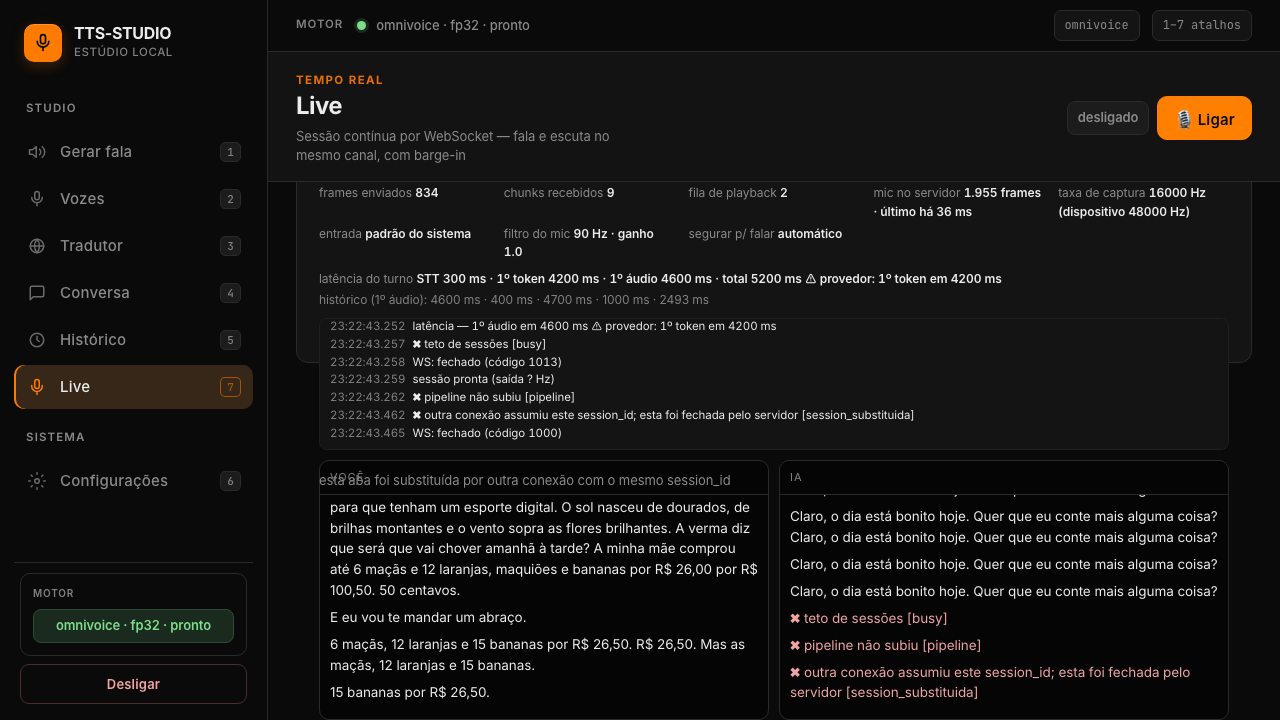
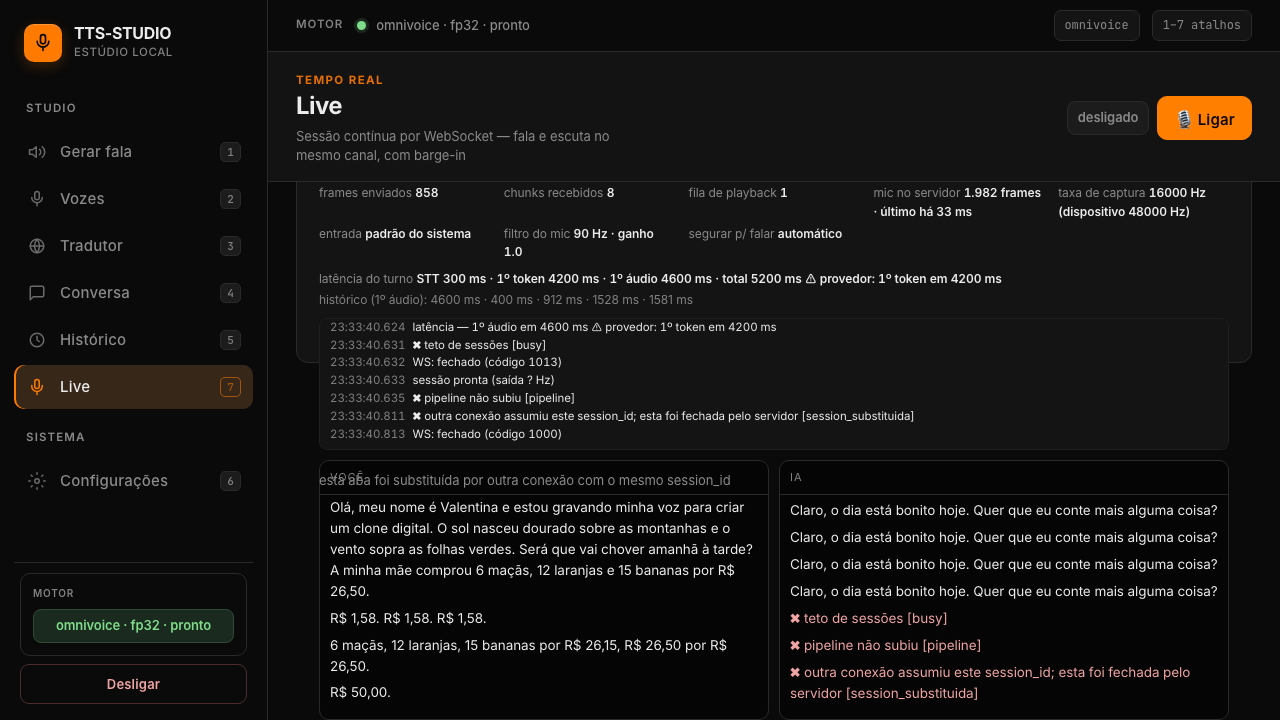
feat(live): 9º filtro (`modelo`) e vocabulário do motor no "sem decisão"
O `_apply_settings` do #501 fechou o vocabulário dos filtros no servidor e inclui
o `modelo` (filtro por LLM, `on` nasce FALSE até a medição do qa). A tela passa a
mostrar o toggle — sem os campos de provedor/limiar/timeout, que o servidor
preenche — e a explicar por que ele nasce desligado.

`live_barge_sem_decisao`: o motor lê `interrompe`, o adendo do dono diz `corta`.
A tela MANDA `interrompe` (é o que vira corte de fato) e ACEITA `corta` na leitura,
convertendo — as duas formas ficam cobertas por teste, com o alias injetado direto
no servidor de teste por uma rota `/__set` (sem passar pela validação, porque o
`_apply_settings` normalizaria o alias embora ele não seja o que o motor lê).

O launcher agora só SERVE as chaves se o app não as conhecer e sempre grava o corpo
dos POSTs; a suíte repõe o baseline no início e devolve filtros e modo ao dono no
fim, então é reexecutável (três rodadas seguidas verdes).

Refs #502

diff --git a/static/index.html b/static/index.html
@@ -2663,6 +2663,10 @@
               <label class="check"><input type="checkbox" id="lxLiga_eco"><b>eco do próprio TTS</b></label>
               <span class="lx-dica">CONTINUO quando o que voltou é a minha própria fala</span>
             </div>
+            <div class="lx-filtro" data-filtro="modelo">
+              <label class="check"><input type="checkbox" id="lxLiga_modelo"><b>modelo (LLM)</b></label>
+              <span class="lx-dica">decido pelo conteúdo — entra só quando os rápidos não decidem; ainda desligado até a medição</span>
+            </div>
             <div class="lx-filtro" data-filtro="fim_de_resposta">
               <label class="check"><input type="checkbox" id="lxLiga_fim_de_resposta"><b>fim de resposta</b></label>
               <span class="lx-dica">deixo terminar (anoto sua fala) quando faltam</span>
@@ -2674,7 +2678,7 @@
               <label for="lxSemDecisao"><b>quando nenhum filtro decide</b></label>
               <select id="lxSemDecisao" aria-label="quando nenhum filtro decide">
                 <option value="continua">continuo falando</option>
-                <option value="corta">corto a resposta</option>
+                <option value="interrompe">corto a resposta</option>
               </select>
             </div>
             <div class="row" style="gap:10px; align-items:center; margin-top:8px">
@@ -8339,9 +8343,12 @@ const LX_FILTROS_PADRAO = {
   backchannel: { on: true, palavras: ["uhum", "aham", "hum", "sim", "sei", "ok", "tá", "certo", "entendi", "isso", "claro", "beleza", "legal", "nossa", "mhm", "yeah", "right"] },
   ruido: { on: true },
   eco: { on: true },
+  modelo: { on: false },   // decide pelo conteúdo (LLM); o servidor também nasce false
   fim_de_resposta: { on: true, restante_ms: 1000 },
 };
-const LX_SEM_DECISAO_PADRAO = "continua";
+// O motor lê `interrompe` como corte (app.py: `"interrupcao" if tipo == "interrompe"`);
+// aceitar `corta` na leitura cobre o vocabulário do adendo, que é outro.
+const LX_SEM_DECISAO_PADRAO = "continua", LX_SEM_DECISAO_CORTA = "interrompe";
 const LX_MAX_PALAVRAS = 100, LX_MAX_PALAVRA_CHARS = 40;
 
 function lxClona(o) { return JSON.parse(JSON.stringify(o)); }
@@ -8377,7 +8384,8 @@ function lxFiltrosAplica(dados, semDecisao) {
   const d = (dados && typeof dados === "object") ? dados : {};
   LX.filtros = {};
   for (const nome of Object.keys(LX_FILTROS_PADRAO)) LX.filtros[nome] = lxFiltroCfg(nome, d[nome]);
-  LX.semDecisao = ["continua", "corta"].includes(semDecisao) ? semDecisao : LX_SEM_DECISAO_PADRAO;
+  LX.semDecisao = (semDecisao === "corta" || semDecisao === LX_SEM_DECISAO_CORTA)
+    ? LX_SEM_DECISAO_CORTA : LX_SEM_DECISAO_PADRAO;
   lxFiltrosRender();
   lxFiltrosModo();
 }
@@ -8411,7 +8419,7 @@ function lxFiltrosRender() {
   const ligados = Object.values(LX.filtros).filter(c => c.on).length;
   if ($("lxFiltrosResumo"))
     $("lxFiltrosResumo").textContent = "· " + ligados + " de " + Object.keys(LX.filtros).length + " ligados"
-      + " · sem decisão: " + (LX.semDecisao === "corta" ? "corta" : "continua");
+      + " · sem decisão: " + (LX.semDecisao === LX_SEM_DECISAO_CORTA ? "corta" : "continua");
 }
 
 /* No modo `imediata` o motor corta no primeiro som e os filtros não decidem nada:
@@ -8473,8 +8481,13 @@ async function lxEnviaBarge() {
           if (JSON.stringify(valor) !== JSON.stringify(atual[campo])) divergiu.push(nome + "." + campo);
       }
     }
-    if (corpo.live_barge_sem_decisao && (r || {}).live_barge_sem_decisao !== corpo.live_barge_sem_decisao)
-      divergiu.push("live_barge_sem_decisao" + ((r || {}).live_barge_sem_decisao ? "" : " (o servidor não conhece)"));
+    {
+      const semDevolvido = (r || {}).live_barge_sem_decisao;
+      const mesmo = semDevolvido === corpo.live_barge_sem_decisao
+        || (corpo.live_barge_sem_decisao === LX_SEM_DECISAO_CORTA && semDevolvido === "corta");
+      if (corpo.live_barge_sem_decisao && !mesmo)
+        divergiu.push("live_barge_sem_decisao" + (semDevolvido ? "" : " (o servidor não conhece)"));
+    }
     if (divergiu.length) lxFiltrosStatus("⚠ o servidor não guardou: " + divergiu.join(", "), true);
     else lxFiltrosStatus("filtros salvos ✔");
   } catch (e) {
@@ -8517,10 +8530,8 @@ function lxPalavraTira(nome, palavra) {
 }
 
 function lxRestauraPadroes() {
-  LX.filtros = lxClona(LX_FILTROS_PADRAO);
-  LX.semDecisao = LX_SEM_DECISAO_PADRAO;
-  lxFiltrosRender();
-  lxSalvaBarge({ live_barge_filtros: lxClona(LX_FILTROS_PADRAO),
+  lxFiltrosAplica();          // passa pelos defaults normalizados e clampados
+  lxSalvaBarge({ live_barge_filtros: lxClona(LX.filtros),
                  live_barge_sem_decisao: LX_SEM_DECISAO_PADRAO });
   lxLogEvento("⚙ filtros da interrupção restaurados no padrão");
   lxFiltrosStatus("padrões restaurados");
@@ -8873,7 +8884,8 @@ for (const b of document.querySelectorAll("[data-add]")) {
   };
 }
 if ($("lxSemDecisao")) $("lxSemDecisao").onchange = () => {
-  LX.semDecisao = $("lxSemDecisao").value === "corta" ? "corta" : "continua";
+  LX.semDecisao = $("lxSemDecisao").value === LX_SEM_DECISAO_CORTA
+    ? LX_SEM_DECISAO_CORTA : LX_SEM_DECISAO_PADRAO;
   lxFiltrosRender();
   lxSalvaBarge({ live_barge_sem_decisao: LX.semDecisao });
 };

diff --git a/evidence/INDEX.md b/evidence/INDEX.md
@@ -254,7 +254,7 @@ Depois de acrescentar, regenere: `./.venv-mlx/bin/python tests/gera_evidence_ind
 | `243-mordidas.sh` | #243 | 2026-10-01 | !/bin/zsh |
 | `243-mordidas.txt` | #243 | 2026-10-01 | == 1 — 202-gate.sh perde o RUN (backup de settings volta a ser global) |
 | `243-varredura-tmp.txt` | #243 | 2026-10-01 | VARREDURA DA CASA — CAMINHO FIXO EM /tmp (classe #12/#83/#224/#240) — task #243 |
-| `244-live-substituida-status.png` | #244 | 2026-10-21 | (imagem) |
+| `244-live-substituida-status.png` | #244 | 2026-10-27 | (imagem) |
 | `244-live-substituida.png` | #244 | 2026-10-27 | (imagem) |
 | `244-live_ui.txt` | #244 | 2026-10-02 | Exception occurred during processing of request from ('127.0.0.1', 54047) |
 | `244-mordida-A.txt` | #244 | 2026-10-02 | servidor de teste em http://127.0.0.1:63347 (stub :63346) |
@@ -285,7 +285,7 @@ Depois de acrescentar, regenere: `./.venv-mlx/bin/python tests/gera_evidence_ind
 | `375-F5-ns-rnnoise.md` | #375 | 2026-10-22 | 375/F5 — NS do navegador + RNNoise: o filtro custa precisão do STT |
 | `440-rastro-sinal-mascara.txt` | #440 | 2026-10-22 | == ANTES da máscara (vazava) == |
 | `442-rnnoise-vad-x-stt.md` | #442 | 2026-10-22 | 442 — decisão do default do RNNoise: o filtro serve ao VAD, não ao STT |
-| `502-live-filtros-painel.png` | #502 | — | (imagem) |
+| `502-live-filtros-painel.png` | #502 | 2026-10-27 | (imagem) |
 | `502-live-interrupcao-duck.png` | #502 | 2026-10-27 | (imagem) |
 | `502-live-interrupcao-suites.txt` | #502 | 2026-10-27 | 502 — LIVE UI da interrupção inteligente: medições da suíte e das mordidas |
 | `antes-xss-vozes.png` | — | 2026-09-24 | (imagem) |
